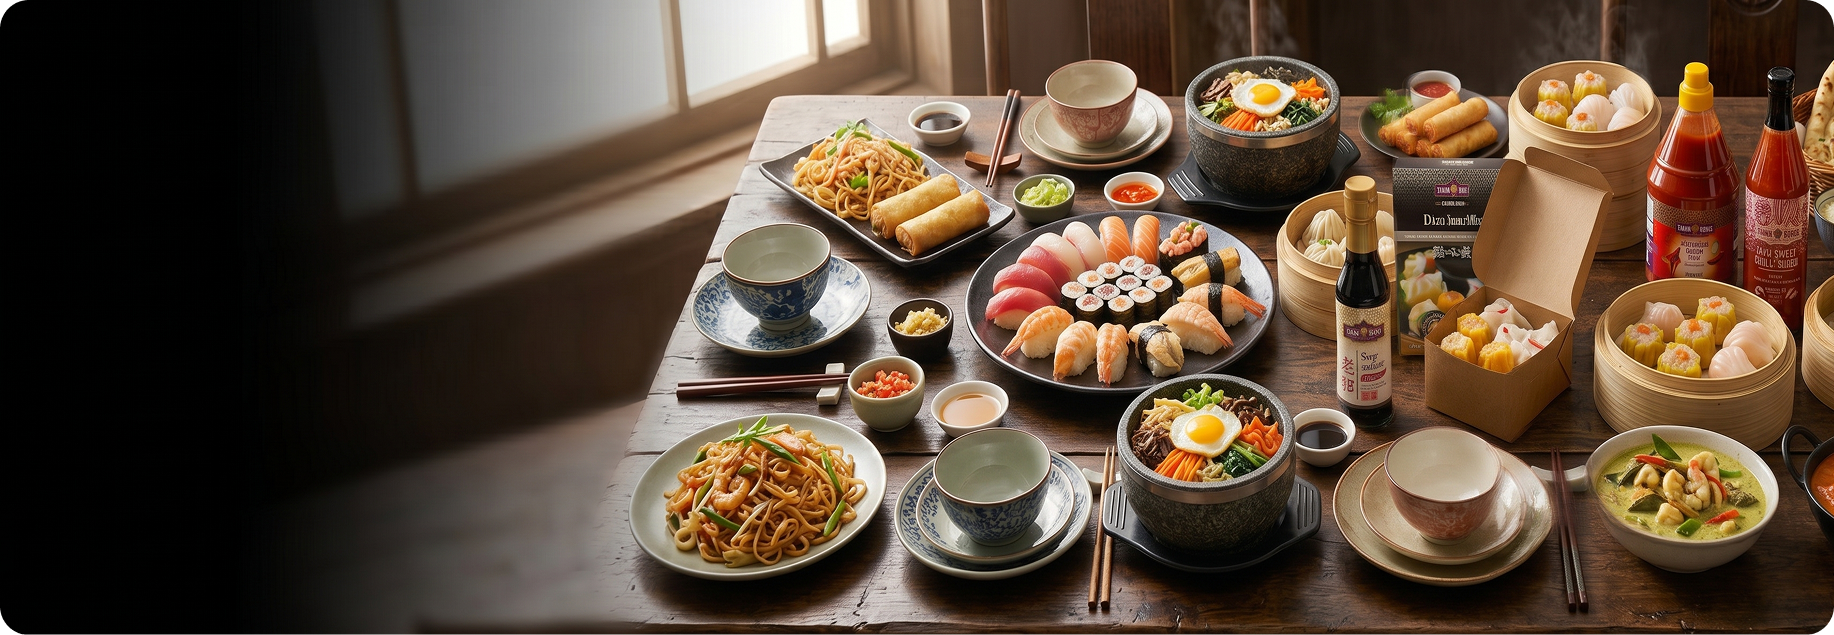
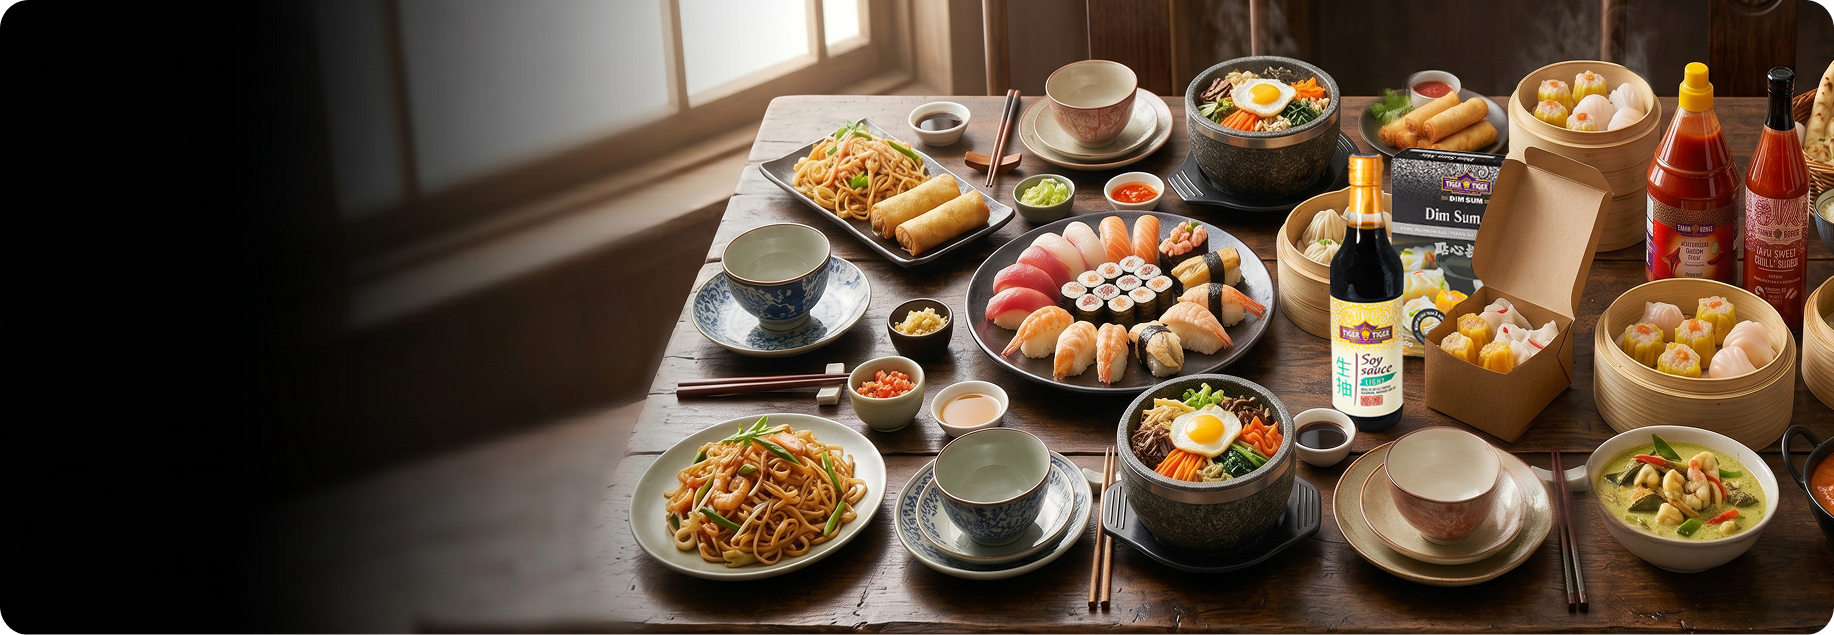
updated

Changed region(s): [[0.7148, 0.2394, 0.8391, 0.6583]]

diff --git a/app/feature_product/[ProductSlug]/page.jsx b/app/feature_product/[ProductSlug]/page.jsx
@@ -4,6 +4,7 @@ import ProductRange from "../../Components/ProductRange";
 import { ChevronLeft, ChevronRight } from "lucide-react";
 import Link from "next/link";
 import { usePathname } from "next/navigation";
+import Image from 'next/image'
 
 const slugify = (s) =>
   String(s)
@@ -20,42 +21,42 @@ export default function Home() {
     {
       title: "Pulp Plus",
       features: [
-        { id: 1, img: "/pulp-feature_1.webp" },
-        { id: 2, img: "/pulpfeature_2.webp" },
-        { id: 3, img: "/pulpfeature_3.webp" },
+        { id: 1, Image: "/pulp-feature_1.webp" },
+        { id: 2, Image: "/pulpfeature_2.webp" },
+        { id: 3, Image: "/pulpfeature_3.webp" },
       ],
       listings: [
-        { id: 4, name: "PULP+ LYCHEE JUICE", img: "/feature_guava.webp" },
-        { id: 5, name: "PULP+ MANGO JUICE", img: "/featured_guava.webp" },
-        { id: 6, name: "PULP+ PINK GUAVA JUICE", img: "/featured_mango.webp" },
-        { id: 7, name: "PULP+ COCONUT WATER", img: "/featured_coconut.webp" },
+        { id: 4, name: "PULP+ LYCHEE JUICE", Image: "/feature_guava.webp" },
+        { id: 5, name: "PULP+ MANGO JUICE", Image: "/featured_guava.webp" },
+        { id: 6, name: "PULP+ PINK GUAVA JUICE", Image: "/featured_mango.webp" },
+        { id: 7, name: "PULP+ COCONUT WATER", Image: "/featured_coconut.webp" },
       ],
     },
     {
       title: "Popping Candy",
       features: [
-        { id: 8, img: "/popping feature 1.webp" },
-        { id: 9, img: "/popping feature 2.webp" },
+        { id: 8, Image: "/popping feature 1.webp" },
+        { id: 9, Image: "/popping feature 2.webp" },
      
       ],
       listings: [
-        { id: 11, name: "POPPING CANDY BISCUITS STICK MILK TEA", img: "/feature_product.webp" },
-        { id: 12, name: "POPPING CANDY BISCUITS STICK BANANA", img: "/banana.webp" },
-        { id: 13, name: "POPPING CANDY BISCUITS STICK CAPPUCCINO", img: "/coffee.webp" },
-        { id: 14, name: "POPPING CANDY BISCUITS STICK COOKIES", img: "/biscuit.webp" },
+        { id: 11, name: "POPPING CANDY BISCUITS STICK MILK TEA", Image: "/feature_product.webp" },
+        { id: 12, name: "POPPING CANDY BISCUITS STICK BANANA", Image: "/banana.webp" },
+        { id: 13, name: "POPPING CANDY BISCUITS STICK CAPPUCCINO", Image: "/coffee.webp" },
+        { id: 14, name: "POPPING CANDY BISCUITS STICK COOKIES", Image: "/biscuit.webp" },
       ],
     },
     {
       title: "COCO CHOO",
       features: [
-        { id: 15, img: "/cocochoo-feature-1.webp" },
-        { id: 16, img: "/coco choo 2.webp" },
-        { id: 17, img: "/coco choo 3.webp" },
+        { id: 15, Image: "/cocochoo-feature-1.webp" },
+        { id: 16, Image: "/coco choo 2.webp" },
+        { id: 17, Image: "/coco choo 3.webp" },
       ],
       listings: [
-        { id: 18, name: "COCO CHOO CLASSIC", img: "/chow1.webp" },
-        { id: 19, name: "COCO CHOO HAZELNUT", img: "/chow2.webp" },
-        { id: 20, name: "COCO CHOO DARK", img: "/chow3.webp" },
+        { id: 18, name: "COCO CHOO CLASSIC", Image: "/chow1.webp" },
+        { id: 19, name: "COCO CHOO HAZELNUT", Image: "/chow2.webp" },
+        { id: 20, name: "COCO CHOO DARK", Image: "/chow3.webp" },
       ],
     },
   ];
@@ -77,8 +78,8 @@ export default function Home() {
               <div className="grid grid-cols-1 md:grid-cols-3 gap-8 mb-16 items-start">
                 {section.features.map((item) => (
                   <div key={item.id} className="overflow-hidden rounded-[30px] md:rounded-[0px] shadow-lg hover:shadow-2xl transition-all duration-500">
-                    <img
-                      src={item.img}
+                    <Image
+                      src={item.Image}
                       alt="Feature"
                       className="w-full h-auto block transition-transform duration-700 hover:scale-105"
                     />
@@ -148,8 +149,8 @@ function ProductSlider({ listings, productSlug }) {
                 className="flex flex-col items-center group/card animate-fadeIn"
               >
                 <div className="relative w-full aspect-[3/4] overflow-hidden flex items-center justify-center mb-4 transition-all duration-500 group-hover/card:drop-shadow-3xl shadow-2xl rounded-[2.5rem] bg-white">
-                  <img
-                    src={item.img}
+                  <Image
+                    src={item.Image}
                     alt={item.name}
                     className="max-h-full max-w-full object-contain transition-transform duration-700 group-hover/card:scale-110"
                   />

diff --git a/app/feature_product/page.jsx b/app/feature_product/page.jsx
@@ -1,5 +1,5 @@
 import FeatureProductPageClient from "./FeatureProductPageClient";
-
+import Image from "next/image";
 const slugify = (s) =>
   String(s)
     .toLowerCase()
@@ -49,42 +49,42 @@ export default function FeatureProductPage() {
     {
       title: "Pulp Plus",
       features: [
-        { id: 1, img: "/pulp-feature_1.webp", name: "PULP+ LYCHEE JUICE" },
-        { id: 2, img: "/pulpfeature_2.webp", name: "PULP+ MANGO JUICE" },
-        { id: 3, img: "/pulpfeature_3.webp", name: "PULP+ PINK GUAVA JUICE" },
+        { id: 1, Image: "/pulp-feature_1.webp", name: "PULP+ LYCHEE JUICE" },
+        { id: 2, Image: "/pulpfeature_2.webp", name: "PULP+ MANGO JUICE" },
+        { id: 3, Image: "/pulpfeature_3.webp", name: "PULP+ PINK GUAVA JUICE" },
       ],
       listings: [
-        { id: 4, name: "PULP+ LYCHEE JUICE", img: "/feature_guava.webp" },
-        { id: 5, name: "PULP+ MANGO JUICE", img: "/featured_guava.webp" },
-        { id: 6, name: "PULP+ PINK GUAVA JUICE", img: "/featured_mango.webp" },
-        { id: 7, name: "PULP+ COCONUT WATER", img: "/featured_coconut.webp" },
+        { id: 4, name: "PULP+ LYCHEE JUICE", Image: "/feature_guava.webp" },
+        { id: 5, name: "PULP+ MANGO JUICE", Image: "/featured_guava.webp" },
+        { id: 6, name: "PULP+ PINK GUAVA JUICE", Image: "/featured_mango.webp" },
+        { id: 7, name: "PULP+ COCONUT WATER", Image: "/featured_coconut.webp" },
       ],
     },
     {
       title: "Popping Candy ",
       features: [
-        { id: 8, img: "/popping feature 1.webp", name: "POPPING CANDY BISCUITS STICK MILK TEA" },
-        { id: 9, img: "/popping feature 2.webp", name: "POPPING CANDY BISCUITS STICK BANANA" },
+        { id: 8, Image: "/popping feature 1.webp", name: "POPPING CANDY BISCUITS STICK MILK TEA" },
+        { id: 9, Image: "/popping feature 2.webp", name: "POPPING CANDY BISCUITS STICK BANANA" },
       
       ],
       listings: [
-        { id: 11, name: "POPPING CANDY BISCUITS STICK MILK TEA", img: "/feature_product.webp" },
-        { id: 12, name: "POPPING CANDY BISCUITS STICK BANANA", img: "/banana.webp" },
-        { id: 13, name: "POPPING CANDY BISCUITS STICK CAPPUCCINO", img: "/coffee.webp" },
-        { id: 14, name: "POPPING CANDY BISCUITS STICK COOKIES", img: "/biscuit.webp" },
+        { id: 11, name: "POPPING CANDY BISCUITS STICK MILK TEA", Image: "/feature_product.webp" },
+        { id: 12, name: "POPPING CANDY BISCUITS STICK BANANA", Image: "/banana.webp" },
+        { id: 13, name: "POPPING CANDY BISCUITS STICK CAPPUCCINO", Image: "/coffee.webp" },
+        { id: 14, name: "POPPING CANDY BISCUITS STICK COOKIES", Image: "/biscuit.webp" },
       ],
     },
     {
       title: "COCO CHOO (Coming Soon)",
       features: [
-        { id: 15, img: "/cocochoo-feature-1.webp", name: "COCO CHOO CLASSIC" },
-        { id: 16, img: "/coco choo 2.webp", name: "COCO CHOO HAZELNUT" },
-        { id: 17, img: "/coco choo 3.webp", name: "COCO CHOO DARK" },
+        { id: 15, Image: "/cocochoo-feature-1.webp", name: "COCO CHOO CLASSIC" },
+        { id: 16, Image: "/coco choo 2.webp", name: "COCO CHOO HAZELNUT" },
+        { id: 17, Image: "/coco choo 3.webp", name: "COCO CHOO DARK" },
       ],
       listings: [
-        { id: 18, name: "COCO CHOO CLASSIC", img: "/chow1.webp" },
-        { id: 19, name: "COCO CHOO HAZELNUT", img: "/chow2.webp" },
-        { id: 20, name: "COCO CHOO DARK", img: "/chow3.webp" },
+        { id: 18, name: "COCO CHOO CLASSIC", Image: "/chow1.webp" },
+        { id: 19, name: "COCO CHOO HAZELNUT", Image: "/chow2.webp" },
+        { id: 20, name: "COCO CHOO DARK", Image: "/chow3.webp" },
       ],
     },
   ];

diff --git a/app/feature_product/FeatureProductPageClient.jsx b/app/feature_product/FeatureProductPageClient.jsx
@@ -2,6 +2,7 @@
 import { useState, useEffect } from "react";
 import Link from "next/link";
 import { ChevronLeft, ChevronRight } from "lucide-react";
+import Image from "next/image";
 
 export default function FeatureProductPageClient({ sections = [] }) {
   useEffect(() => {
@@ -64,10 +65,13 @@ function FeatureSlider({ features }) {
           key={item.id} 
           className={`absolute inset-0 transition-opacity duration-1000 ${current === i ? "opacity-100" : "opacity-0"}`}
         >
-          <img 
-            src={item.img} 
+          <Image
+            src={item.Image} 
             alt={item.name} 
-            className="w-full h-full object-cover" 
+            fill
+            className="w-full h-full object-cover"
+            priority={i === 0}
+            loading={i === 0 ? "eager" : "lazy"}
           />
         </div>
       ))}
@@ -91,7 +95,14 @@ function ProductSlider({ listings }) {
         {visibleListings.map((item, i) => (
           <Link key={i} href={item.href} className="flex flex-col items-center group">
              <div className="relative w-full aspect-[3/4] bg-white shadow-md rounded-[2rem] flex items-center justify-center p-6 border border-gray-100 group-hover:shadow-2xl transition-all">
-                <img src={item.img} alt={item.name} className="max-h-full object-contain" />
+             <Image 
+  src={item.Image} 
+  alt={item.name} 
+  fill 
+  className="object-contain"
+  priority={true}
+  loading="eager"
+/>
                 {item.isComingSoon && <div className="absolute inset-0 bg-black/5 flex items-center justify-center font-black text-sm">SOON</div>}
              </div>
              <h3 className="mt-4 text-xs font-black uppercase text-[#431A4F] text-center">{item.name}</h3>

diff --git a/app/Components/Heroslider.jsx b/app/Components/Heroslider.jsx
@@ -10,7 +10,7 @@ import "swiper/css";
 import "swiper/css/pagination";
 
 const slidesData = [
-  { id: 1, src: "/TT-hero-main.png", alt: "Tiger Tiger", title: "Back-to-Back Winners", mainHeading: " Pulp+ UK Soft Drinks Awards Champion, 2025 & 2026", className: "scale-[1.5] md:scale-140 md:translate-y-0 translate-y-8", isVideo: false },
+  { id: 1, src: "/TT-hero-main.png", alt: "Tiger Tiger", title: "Back-to-Back Winners", mainHeading: " Pulp+ UK Soft Drinks Awards Champion 2025 & 2026", className: "scale-[1.5] md:scale-140 md:translate-y-0 translate-y-8", isVideo: false },
   { id: 2, src: "/japanese-hero.webp", alt: "Japanese", title: "Made for Every Kitchen & Shelf", mainHeading: "Leading Pan Asian Food Brand in the UK",  className: "scale-[1.5] md:scale-140 translate-y-0 md:translate-y-8", isVideo: false },
   { id: 3, src: "/koreann-wow.png", alt: "Korean", title: "Four Bold Flavours. Ready in 4 minutes", mainHeading: "Where Authentic Taste Meets Exceptional Quality", className: "w-full h-full object-cover object-bottom scale-[1.1]", isVideo: false },
   { id: 4, src: "/testing.mp4", alt: "Brand Video", title: "Straight from Freezer", mainHeading: "Your Trusted Name in Frozen Pan-Asian Food",     className: "w-full h-full object-cover",  isVideo: true },

diff --git a/app/Components/MapSection.jsx b/app/Components/MapSection.jsx
@@ -7,7 +7,7 @@ const MapSection = () => {
   const [isClient, setIsClient] = useState(false);
   const [leafletLib, setLeafletLib] = useState(null);
   
-  const position = [52.9372, -1.1764]; 
+const position = [52.9352, -1.1834];
 
   useEffect(() => {
     setIsClient(true);
